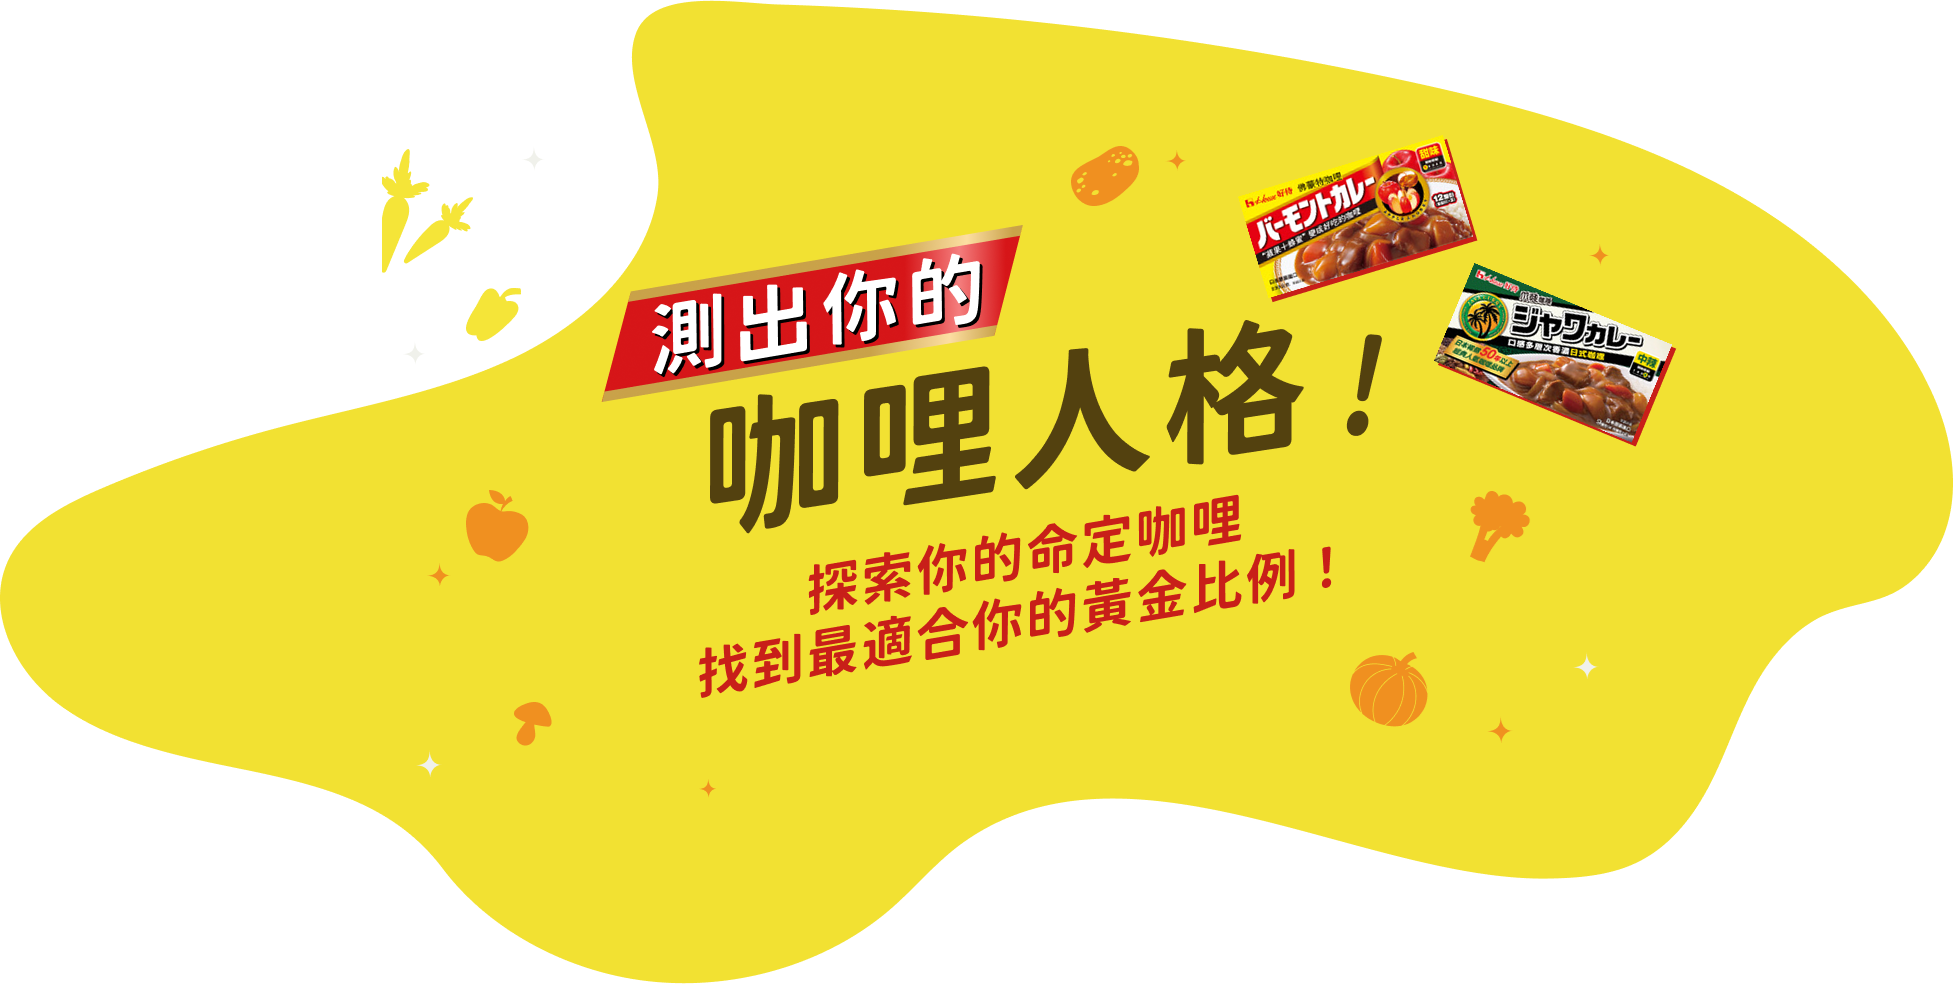
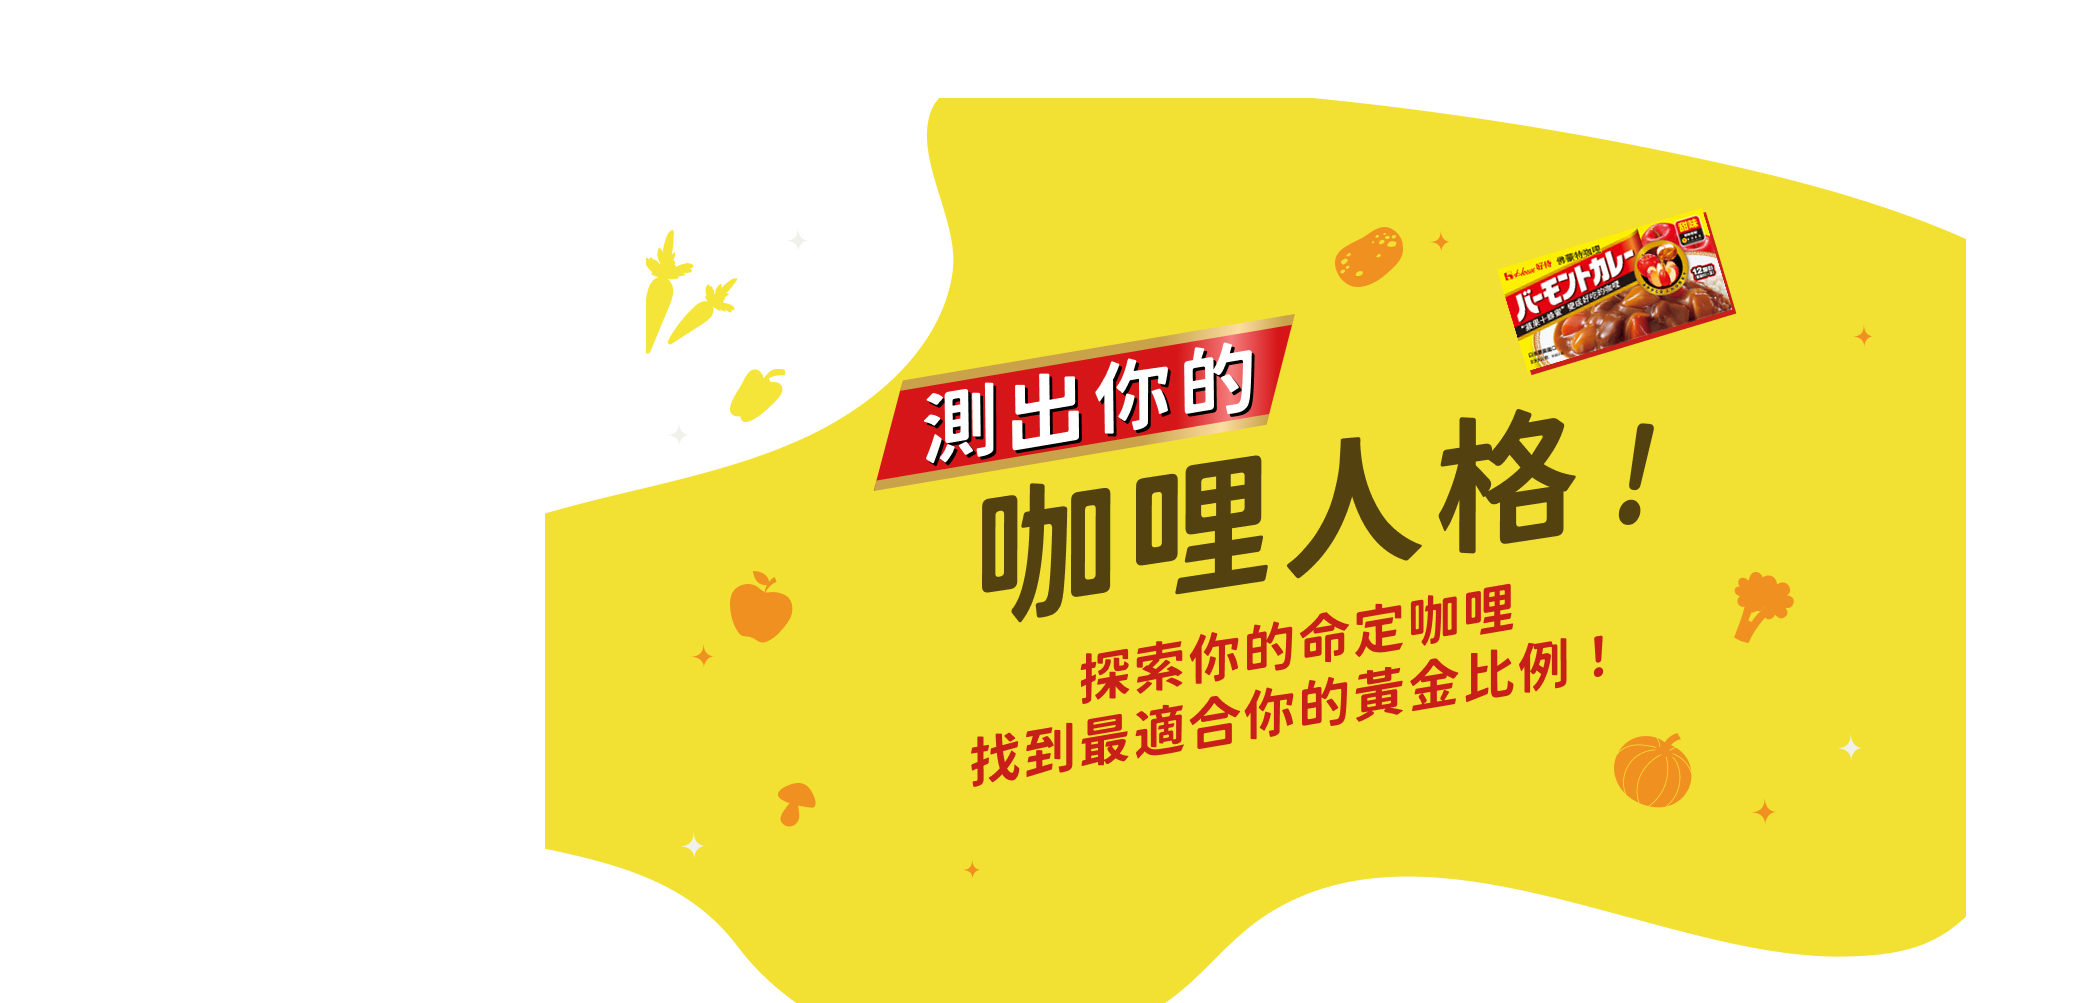
主視覺RWD

diff --git a/app/pages/index.vue b/app/pages/index.vue
@@ -4,8 +4,42 @@
     class="flex flex-col justify-center items-center gap-4 mt-4 bg-[var(--bg-yellow)] min-h-screen pt-16"
   >
     <!-- 活動測驗 -->
-    <div class="bg-[#F09020] w-full min-h-[730px] sm:min-h-[820px] relative overflow-hidden" id="test">
+    <section class="bg-[#F09020] w-full min-h-[730px] sm:min-h-[820px] relative overflow-hidden" id="test">
       <img
+        src="/assets/images/bg-yellow.png"
+        class="absolute top-24 left-1/2 -translate-x-1/2 w-[933px] sm:-top-24 sm:w-[1953px] h-auto max-w-none"
+      />
+      <img src="/assets/images/veg.png" class="hidden sm:block w-[90vw] absolute z-20 top-6 left-2 w-22 sm:w-auto sm:top-[1%] sm:left-[6%]" />
+      <img src="/assets/images/vegPhone.png" class="block absolute sm:hidden w-[95vw] max-w-[352px] left-1/2 top-[-1%] -translate-x-1/2 z-2 " />
+      
+      <img
+        src="/assets/images/top-title.png"
+        class="left-1/2 -translate-x-1/2 absolute top-58 sm:top-32 w-[95vw] max-w-[680px] md:w-auto z-30"
+      />
+            <img
+        src="/assets/images/Rectangle-1.png"
+        class="absolute z-20 top-[20%] left-[64%] w-29 sm:w-40 lg:w-auto sm:top-[5%] lg:top-[5%] xl:top-[20%] sm:left-[70%] lg:left-[76%] xl:left-[80%] pr-1"
+      />
+      <img
+        src="/assets/images/Rectangle.png"
+        class="absolute z-20 top-[12%] left-[34%] w-29 sm:w-40 lg:w-auto sm:top-[1%] sm:left-[45%] lg:top-[2%] lg:left-[52%] xl:left-[65%]"
+      />
+      
+      <!-- <div class="absolute inset-0 z-0">
+      <img
+        src="/assets/images/bg-yellow.png"
+        class="min-w-[140%] h-full max-w-none -translate-x-[20%] translate-y-[2%] scale-110 object-cover object-center lg:min-w-full lg:translate-x-[-20%] lg:translate-y-[-2%] lg:scale-115 xl:translate-x-[-12%] xl:-translate-y-[3%] xl:scale-120"
+      />
+      </div>
+      <div class="absolute inset-0 z-10 mx-auto max-w-[1440px]">
+      <img src="/assets/images/veg.png" class="hidden md:block translate-x-[4%] inset-0 h-full w-full object-contain object-top" />
+      <img src="/assets/images/vegPhone.png" class="absolute sm:hidden w-[95vw] left-1/2 -translate-x-1/2 z-2 " />
+      
+    </div> -->
+      
+      
+      
+      <!-- <img
         src="/assets/images/bg-yellow.png"
         class="absolute top-24 left-1/2 -translate-x-1/2 w-[933px] sm:-top-24 sm:w-[1953px] h-auto max-w-none"
       />
@@ -14,7 +48,6 @@
         class="left-1/2 -translate-x-1/2 absolute top-58 sm:top-32 w-[95vw] max-w-[680px] sm:w-auto"
       />
       <img src="/assets/images/veg.png" class="hidden md:block absolute z-20 top-6 left-2 w-22 sm:w-auto sm:top-5 sm:left-20" />
-      <img src="/assets/images/vegPhone.png" class="absolute sm:hidden w-[95vw] left-1/2 -translate-x-1/2 z-2 " />
       <img
         src="/assets/images/Rectangle-1.png"
         class="absolute z-20 top-38 right-8 w-28 sm:w-auto sm:top-5 sm:right-2 xl:top-40 xl:right-6"
@@ -22,9 +55,11 @@
       <img
         src="/assets/images/Rectangle.png"
         class="absolute z-20 top-28 right-35 w-28 sm:w-auto sm:top-20 sm:right-60"
-      />
-      <popup />
-    </div>
+      /> -->
+      <div class="">
+        <popup/>
+      </div>
+    </section>
     <!-- 抽獎獎品資訊 -->
     <div
       id="rewards"
@@ -184,7 +219,7 @@
 
         <UiButton
           variant="destructive"
-          class="px-22 py-4 font-bold text-2xl self-center my-8"
+          class="px-22 py-4 font-bold text-2xl self-center my-8 shadow-[4px_4px_4px_0px_rgba(0,0,0,0.25)]"
           >{{ "詳細活動資訊" }}
         </UiButton>
         <div class="text-5xl bg-white text-[var(--primary-brown)] font-medium text-center w-full sm:w-auto mx-auto px-22 py-2 text-nowrap">{{'任務2'}}</div>
@@ -229,7 +264,7 @@
         <svgTitle id="supermarkets" text="附近超市" type="curry" class="h-[160px]" />
         <UiButton
           variant="destructive"
-          class="px-22 py-4 font-bold text-2xl self-center"
+          class="px-22 py-4 font-bold text-2xl self-center shadow-[4px_4px_4px_0px_rgba(0,0,0,0.25)]"
           >{{ "立即查看最近超市" }}
         </UiButton>
         <svgTitle text="得獎公布" type="curry" class="h-[96px] sm:h-[128px] lg:h-[160px]" />
@@ -325,7 +360,7 @@
         <div class="text-base break-all">好侍你的咖哩人格測驗活動小組 <a href="mailto:housecurryevents@gmail.com" class="underline">housecurryevents@gmail.com</a></div>
       </div>
     </div>
-    <div @click="scrollToTop" class="bg-white fixed right-5 bottom-5 w-18 h-18 rounded-full z-50 flex items-center justify-center cursor-pointer shadow-md">
+    <div @click="scrollToTop" class="bg-white fixed right-5 bottom-5 w-18 h-18 rounded-full z-50 flex items-center justify-center cursor-pointer shadow-[4px_4px_4px_0px_rgba(0,0,0,0.25)]">
       <img src="/assets/images/arrow.png" class="w-auto" >
     </div>
   </div>

diff --git a/app/components/popup.vue b/app/components/popup.vue
@@ -3,7 +3,7 @@
     <UiDialogTrigger as-child>
       <UiButton
         variant="destructive"
-        class="px-22 py-4 font-bold text-2xl absolute z-20 bottom-12 sm:bottom-36 left-1/2 -translate-x-1/2 whitespace-nowrap"
+        class="px-22 py-4 font-bold text-2xl absolute z-20 bottom-14 sm:bottom-36 left-1/2 -translate-x-1/2 whitespace-nowrap shadow-[4px_4px_4px_0px_rgba(0,0,0,0.25)] max-[350px]:px-16"
       >
         <Icon name="material-symbols:touch-app" class="text-3xl" />
         開始測驗！
